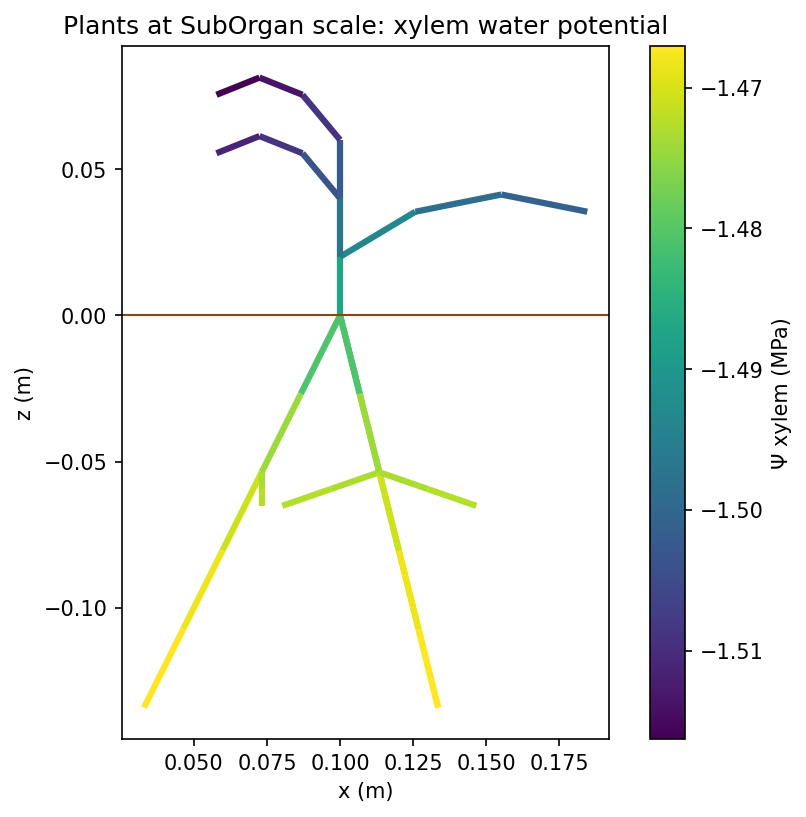
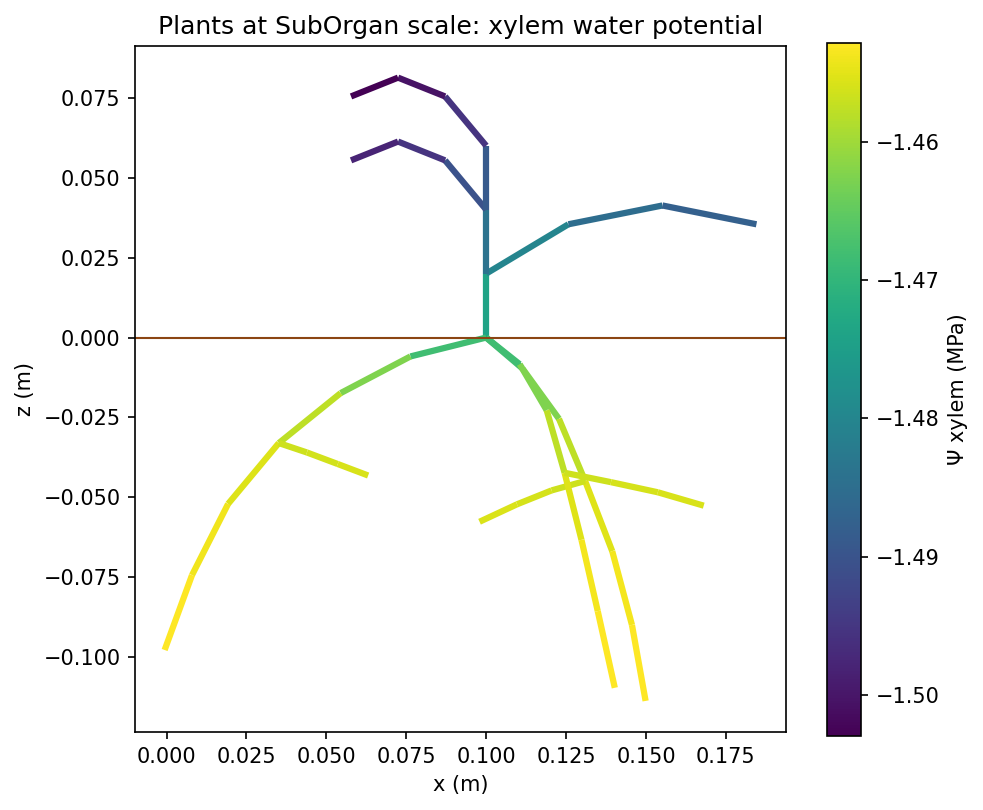
SPAC example: gravitropic first-order roots from the collar, less geometric architecture

diff --git a/examples/soil_plant_atmosphere/seedling.py b/examples/soil_plant_atmosphere/seedling.py
@@ -32,10 +32,12 @@ def _tissue_label(labels, tissue):
 def build_seedling(g, plant, parameters):
     """
     The seedling of *plant*: a shoot of n_phytomers (a stem element and a leaf of n_leaf_elements each) and
-    n_root_axes seminal roots of n_root_segments with one lateral each, every segment with its anatomy.
+    n_root_axes first-order roots of n_root_segments from the collar, bending from emergence_angle below the
+    horizontal towards the vertical (gravitropism, per segment), each with a lateral; every segment with its anatomy.
     """
-    p = dict(n_phytomers=3, n_leaf_elements=3, n_root_axes=3, n_root_segments=5, n_lateral_segments=2,
-             stem_length=0.02, leaf_length=0.03, leaf_width=0.005, root_length=0.03, lateral_length=0.02)
+    p = dict(n_phytomers=3, n_leaf_elements=3, n_root_axes=3, n_root_segments=6, n_lateral_segments=3,
+             stem_length=0.02, leaf_length=0.03, leaf_width=0.005, root_length=0.025, lateral_length=0.015,
+             emergence_angle=15., gravitropism=0.35, lateral_gravitropism=0.08, tortuosity=0.08)
     p.update({key: value for key, value in parameters.items() if key in p})
     s, labels = g.scales, g.labels
     x0, y0, z0 = (float(g.property(name)[plant]) for name in ("x", "y", "z"))
@@ -78,7 +80,15 @@ def build_seedling(g, plant, parameters):
                             (np.cos(azimuth), np.sin(azimuth), 0.6 - 0.4 * element))
             parent = vid
 
-    # roots: seminal axes from the collar, each with one lateral
+    # roots: three first-order (seminal) roots from the collar, each with one lateral. Each starts emergence_angle
+    # (degrees) below the horizontal and bends towards the vertical segment after segment, its direction pulled down
+    # by the gravitropism coefficient, with a small random tortuosity (reproducible per plant)
+    rng = np.random.default_rng(int(plant))
+
+    def tropism(direction, coefficient):
+        bent = np.asarray(direction) + coefficient * np.array([0., 0., -1.]) + rng.normal(0., p["tortuosity"], 3)
+        return bent / np.linalg.norm(bent)
+
     for axis_rank in range(int(p["n_root_axes"])):
         axis = g.add_child(shoot, **PropsConfig(scale=s.Axis, edge_type='+', label=labels.Axis.Root))
         unit_r = g.add_component(axis, **PropsConfig(scale=s.GrowthUnit, edge_type='/',
@@ -87,26 +97,31 @@ def build_seedling(g, plant, parameters):
                                                            label=labels.Phytomer.Root))
         organ = g.add_component(phytomer_r, **PropsConfig(scale=s.Organ, edge_type='/',
                                                           label=labels.Organ.RootInternode))
-        azimuth = rotation + (axis_rank + 0.5) * 2. * np.pi / float(p["n_root_axes"])
-        direction = (0.5 * np.cos(azimuth), 0.5 * np.sin(azimuth), -1.)
+        azimuth = rotation + (axis_rank + 0.5) * 2. * np.pi / float(p["n_root_axes"]) + rng.normal(0., 0.25)
+        dip = np.radians(p["emergence_angle"]) + rng.normal(0., 0.1)
+        direction = np.array([np.cos(azimuth) * np.cos(dip), np.sin(azimuth) * np.cos(dip), -np.sin(dip)])
         start, parent, axis_segments = (x0, y0, z0), collar, []
         for rank in range(int(p["n_root_segments"])):
             props = PropsConfig(scale=s.SubOrgan, edge_type='+' if rank == 0 else '<',
                                 label=labels.SubOrgan.RootSegment)
             vid = (g.add_component_with_topo(organ, parent, **props) if rank == 0 else g.add_child(parent, **props))
             start = segment(vid, ROOT, p["root_length"], start, direction)
+            direction = tropism(direction, p["gravitropism"])
             parent = vid
             axis_segments.append(vid)
-        bearer = axis_segments[min(1, len(axis_segments) - 1)]
+        bearer = axis_segments[min(2, len(axis_segments) - 1)]
         lateral = g.add_child(organ, **PropsConfig(scale=s.Organ, edge_type='+', label=labels.Organ.RootInternode))
-        side = azimuth + np.pi / 2.
+        side = azimuth + np.pi / 2. + rng.normal(0., 0.3)
+        direction = np.array([np.cos(side), np.sin(side), -0.2])
+        direction /= np.linalg.norm(direction)
         start, parent = segments[bearer][3], bearer
         for rank in range(int(p["n_lateral_segments"])):
             props = PropsConfig(scale=s.SubOrgan, edge_type='+' if rank == 0 else '<',
                                 label=labels.SubOrgan.RootSegment)
             vid = (g.add_component_with_topo(lateral, parent, **props) if rank == 0
                    else g.add_child(parent, **props))
-            start = segment(vid, ROOT, p["lateral_length"], start, (np.cos(side), np.sin(side), -0.3))
+            start = segment(vid, ROOT, p["lateral_length"], start, direction)
+            direction = tropism(direction, p["lateral_gravitropism"])
             parent = vid
 
     # segment properties, anatomies and axial junctions

diff --git a/examples/soil_plant_atmosphere/README.md b/examples/soil_plant_atmosphere/README.md
@@ -6,7 +6,7 @@ dry atmosphere. Every part shows a feature of metafspm:
 | file | what it shows |
 |---|---|
 | `components.py` | **`PlantWaterTransport`** and **`SoilWaterTransport`**, two `FunctionalComponent`s, each declaring its own variables and graph system: a node balance, an edge law given explicitly (j = k ΔΨ), and every boundary written as an equation (`@boundary_condition`): the exchange with the air, k_vap (Ψ_air − Ψ), each selecting its nodes with explicit `filters=` key / values. The plant's are at the Compartment and Connection scales, read from and written to the MTG; it adds the root–soil exchange, an equation of the coupled soil Ψ (`@boundary_condition`). The soil's are at cell and edge locations; it adds the water table (Dirichlet, Ψ − Ψ_table) and the plants' uptake. `@graph_output`s give the uptake and the evaporation. |
-| `seedling.py` | **The seedling generator**, standing for the structural models (growth, anatomy) a real simulation would couple: the architecture at every scale, the anatomies and the axial junctions, with the codes the components read. |
+| `seedling.py` | **The seedling generator**, standing for the structural models (growth, anatomy) a real simulation would couple: the architecture at every scale (three first-order roots bending from the collar towards the vertical with a gravitropism coefficient, each with a lateral), the anatomies and the axial junctions, with the codes the components read. |
 | | **`SeedlingStructure`** (in `components.py`), a `StructuralComponent`: `initiate_plant` builds each seedling (with `seedling.py`) at every scale (Plant → Axis → GrowthUnit → Phytomer → Organ → SubOrgan) with an anatomy per segment (root: epidermis, cortex, endodermis, xylem; stem: epidermis, cortex, xylem; leaf: xylem, mesophyll, stomatal cavity) and the axial xylem junctions, then computes the conductances from the structure: k = k_s · L on radial edges, k = k_axial / L on axial ones. **`SoilStructure`** does the same for the soil grid (k = K · A / d on the faces, K varying between voxels). |
 | | **The air**, a constant input: Ψ_air = (RT/V_w) ln RH at 50 % and 20 °C (about −93.9 MPa), and the vapour factor that turns a vapour conductance into a liquid one where water evaporates (the liquid–vapour step, linearised). |
 | `models.py` | **Models and translators.** The plant population model (`SeedlingWater`: initiators, anatomy mode) and the soil environment model. Translators inside a DataStructure (k → conductance), and across DataStructures (soil Ψ → root epidermis, uptake → soil cells). A `CrossMapping` of the root surface only (`mask=`). A `stop_when` condition on the change of Ψ between steps. |
@@ -26,7 +26,7 @@ Volumes in mm³ keep the solves' residuals well above the solver's absolute tole
 
 ## One plant
 
-The scene converges in five steps (largest change of Ψ: 2.5e-01, 9.6e-04, 7.1e-06, 7.9e-08 MPa). Transpiration
+The scene converges in five steps (largest change of Ψ: 2.5e-01, 9.0e-04, 5.7e-06, 5.9e-08 MPa). Transpiration
 (0.076 mm³ s⁻¹) equals the root uptake and the water taken from the soil; the water table supplies it and the soil
 evaporation.
 

diff --git a/devlog.md b/devlog.md
@@ -2039,3 +2039,4 @@ Per-file counts:
   One bug of my own was caught: the functor read the mask dict before the first mask existed. Results unchanged; suite 763 passed.
 - **Example boundaries as decorators (your request):** the air exchange (plant and soil) and the water table are `@boundary_condition` equations instead of boundary sets. Results identical.
 - **Seedling generator externalised (your request):** the architecture, anatomies and junctions (and their codes) moved from `components.py` to `seedling.py`; `SeedlingStructure.initiate_plant` calls it. Results identical.
+- **Root architecture (your request):** three first-order roots emerging 15° below the horizontal at the collar and bending towards the vertical by a gravitropism coefficient (0.35 per segment), with a seeded tortuosity per plant; laterals with a weaker gravitropism. Converges as before (5 and 6 steps), with balances closed.
